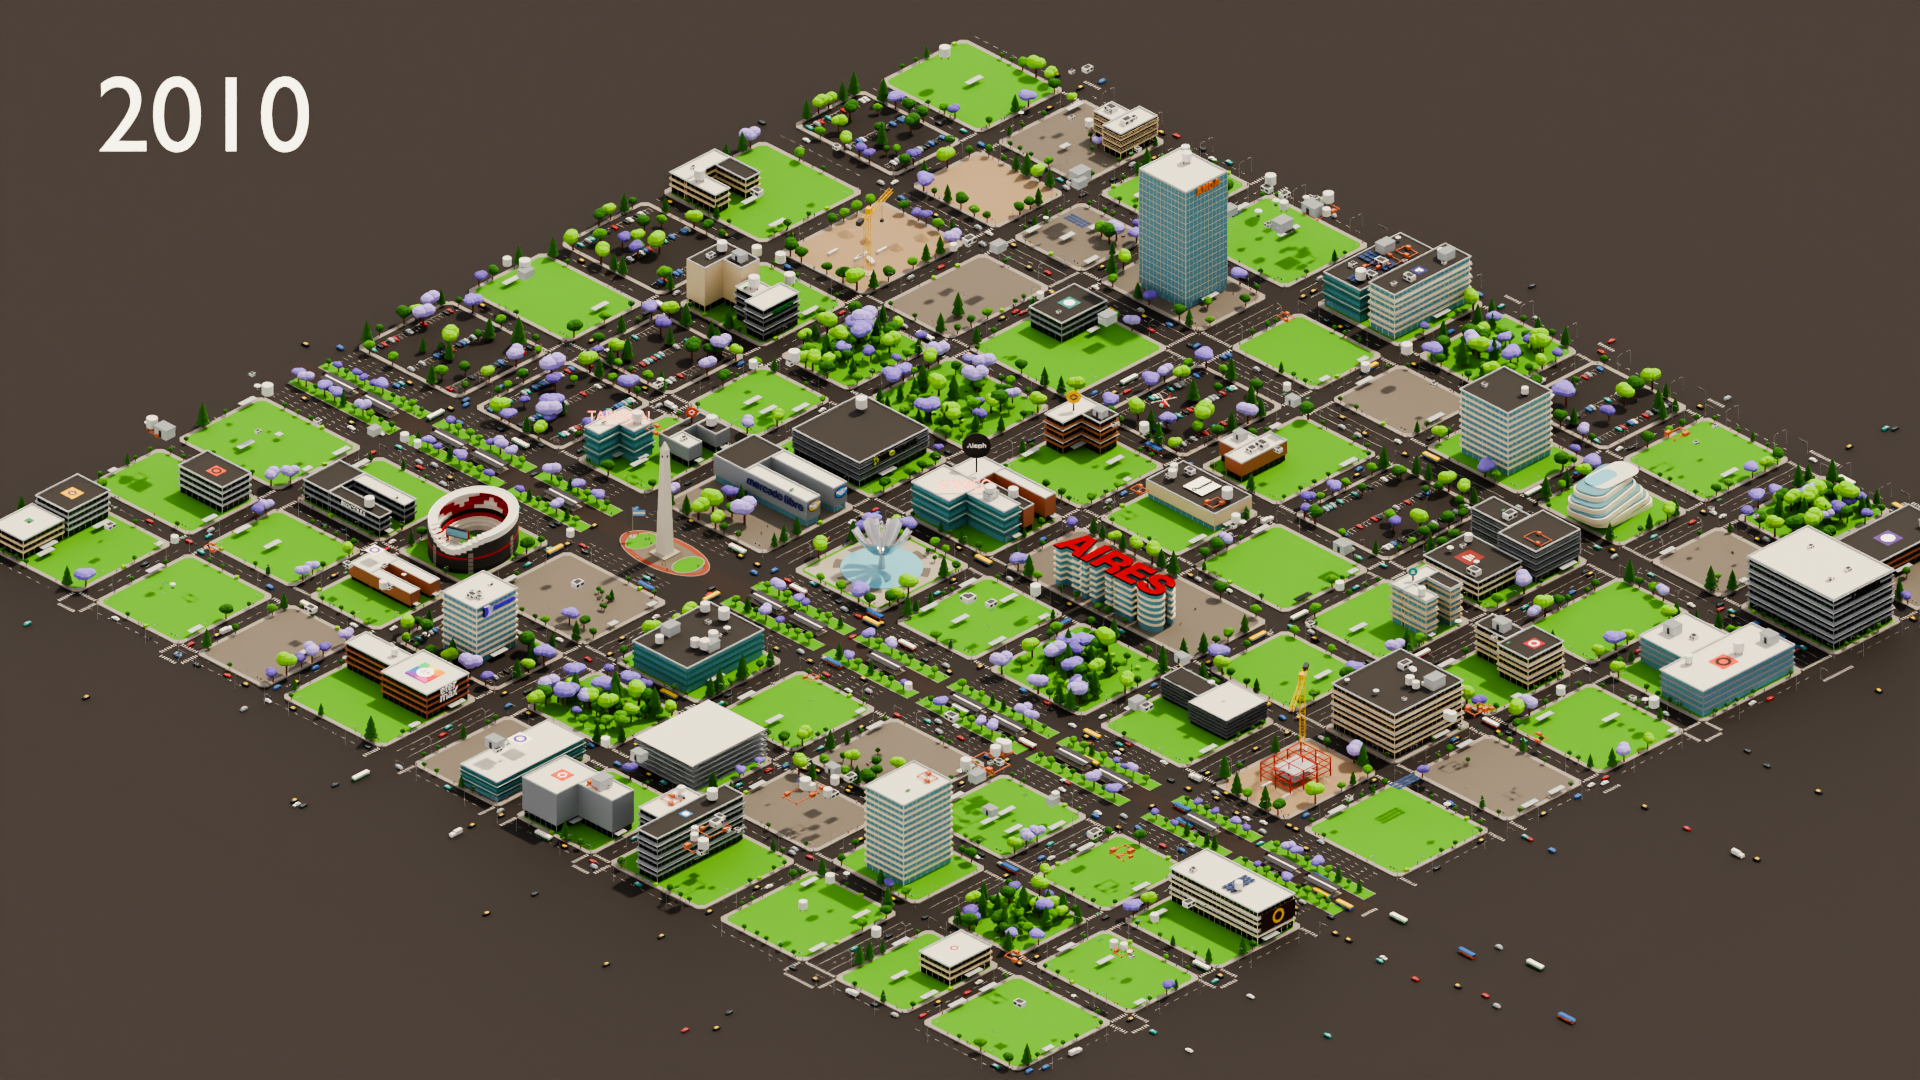
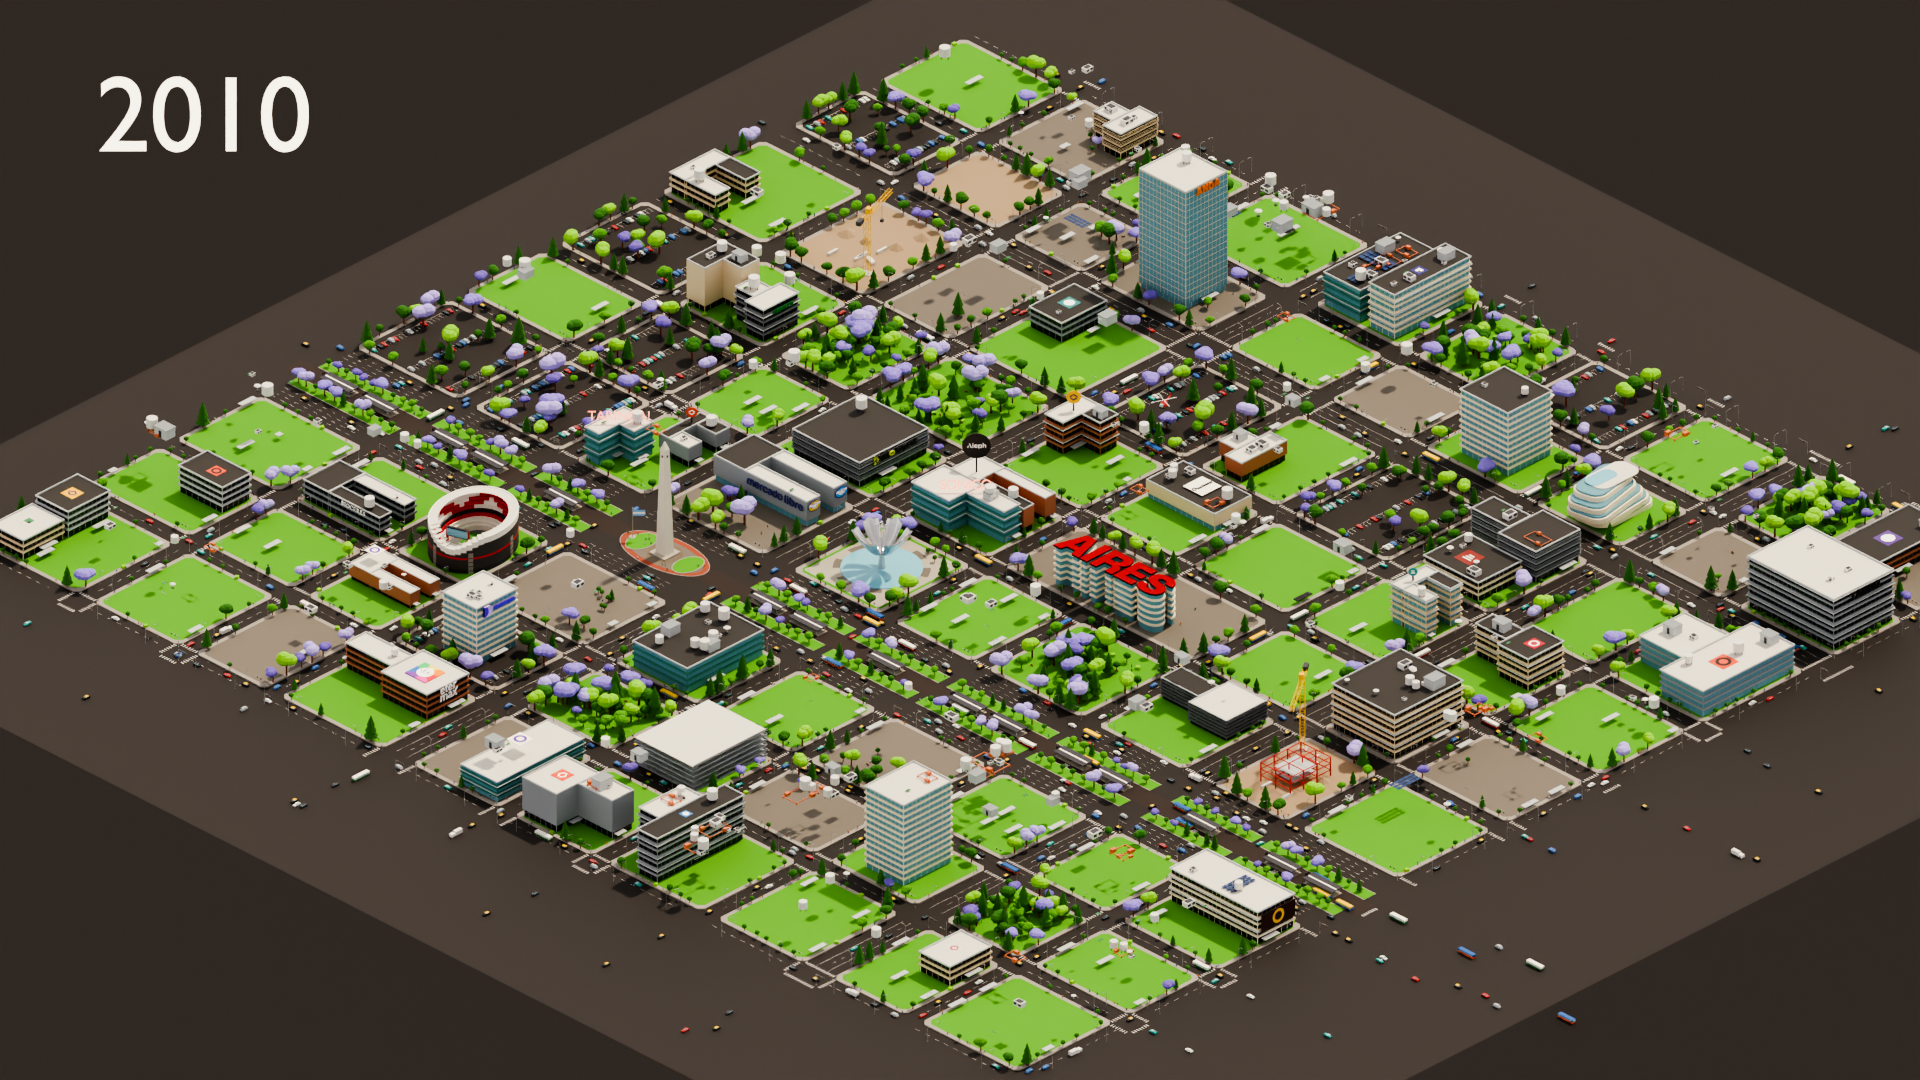
El suelo de fondo va más oscuro que la calzada
Copiando el material de la calle tal cual, el fondo quedaba del mismo tono que
las calles y la trama vial se perdía: la ciudad se leía como una mancha. Ahora
se toma el color de la calzada real y se lo baja al 45%, así el fondo sigue
siendo pavimento pero las calles vuelven a recortarse contra él.

De paso, solid_material no existía en este archivo: venía del script de
geoblender. La primera versión nunca llegaba a esa línea porque reutilizaba el
material de upstream tal cual; al empezar a derivar un color propio, reventó.

diff --git a/scripts/timeline_layer.py b/scripts/timeline_layer.py
@@ -95,6 +95,18 @@ def emission_material(name, rgb, strength):
     return mat
 
 
+def solid_material(name, rgb, roughness=0.5):
+    """Material opaco comun. El de emision no sirve para el suelo: brillaria."""
+    mat = bpy.data.materials.new(TAG + name)
+    mat.use_nodes = True
+    bsdf = mat.node_tree.nodes.get("Principled BSDF")
+    if bsdf is not None:
+        bsdf.inputs["Base Color"].default_value = (rgb[0], rgb[1], rgb[2], 1.0)
+        if "Roughness" in bsdf.inputs:
+            bsdf.inputs["Roughness"].default_value = roughness
+    return mat
+
+
 def set_key_interpolation(kind):
     """Blender 5 saco Action.fcurves (acciones con slots y capas), asi que la
     interpolacion se fija en las preferencias ANTES de insertar en vez de
@@ -903,13 +915,26 @@ def extend_ground(cam, scene, collection, report):
         if mallas:
             fuente = max(mallas, key=lambda o: o.dimensions.x * o.dimensions.y)
 
+    # El suelo de fondo va MAS OSCURO que la calzada de la ciudad. Copiando el
+    # material tal cual, el fondo quedaba del mismo tono que las calles y la
+    # trama vial se perdia: la ciudad se leia como una mancha. Se toma el color
+    # de la calzada real y se lo baja, asi el fondo sigue siendo pavimento pero
+    # las calles vuelven a recortarse contra el.
+    base_rgb, z = (0.055, 0.05, 0.048), 0.0
+    origen = "creado (SITE sin mallas)"
     if fuente is not None:
-        material = fuente.data.materials[0]
+        origen = fuente.name
         z = min((fuente.matrix_world @ Vector(c)).z for c in fuente.bound_box)
-    else:
-        material = solid_material("asfalto", (0.055, 0.05, 0.048),
-                                  roughness=0.9)
-        z = 0.0
+        # El slot puede estar vacio o el material no usar nodos: la calzada de
+        # upstream es geometria generada y no hay garantia de ninguna de las dos.
+        calzada = fuente.data.materials[0] if fuente.data.materials else None
+        bsdf = None
+        if calzada is not None and calzada.use_nodes:
+            bsdf = calzada.node_tree.nodes.get("Principled BSDF")
+        if bsdf is not None and "Base Color" in bsdf.inputs:
+            r, g, b, _ = bsdf.inputs["Base Color"].default_value
+            base_rgb = (r * 0.45, g * 0.45, b * 0.45)
+    material = solid_material("asfalto_fondo", base_rgb, roughness=0.92)
 
     lado = cam.data.ortho_scale * 2.2
     bpy.ops.mesh.primitive_plane_add(size=lado, location=(0.0, 0.0, z - 0.05))
@@ -925,7 +950,8 @@ def extend_ground(cam, scene, collection, report):
         "lado_m": round(lado, 1),
         "z": round(z - 0.05, 3),
         "material": material.name,
-        "tomado_de": fuente.name if fuente else "creado (SITE sin mallas)",
+        "color_derivado_de": origen,
+        "factor_oscurecido": 0.45,
     }
     return plano
 
